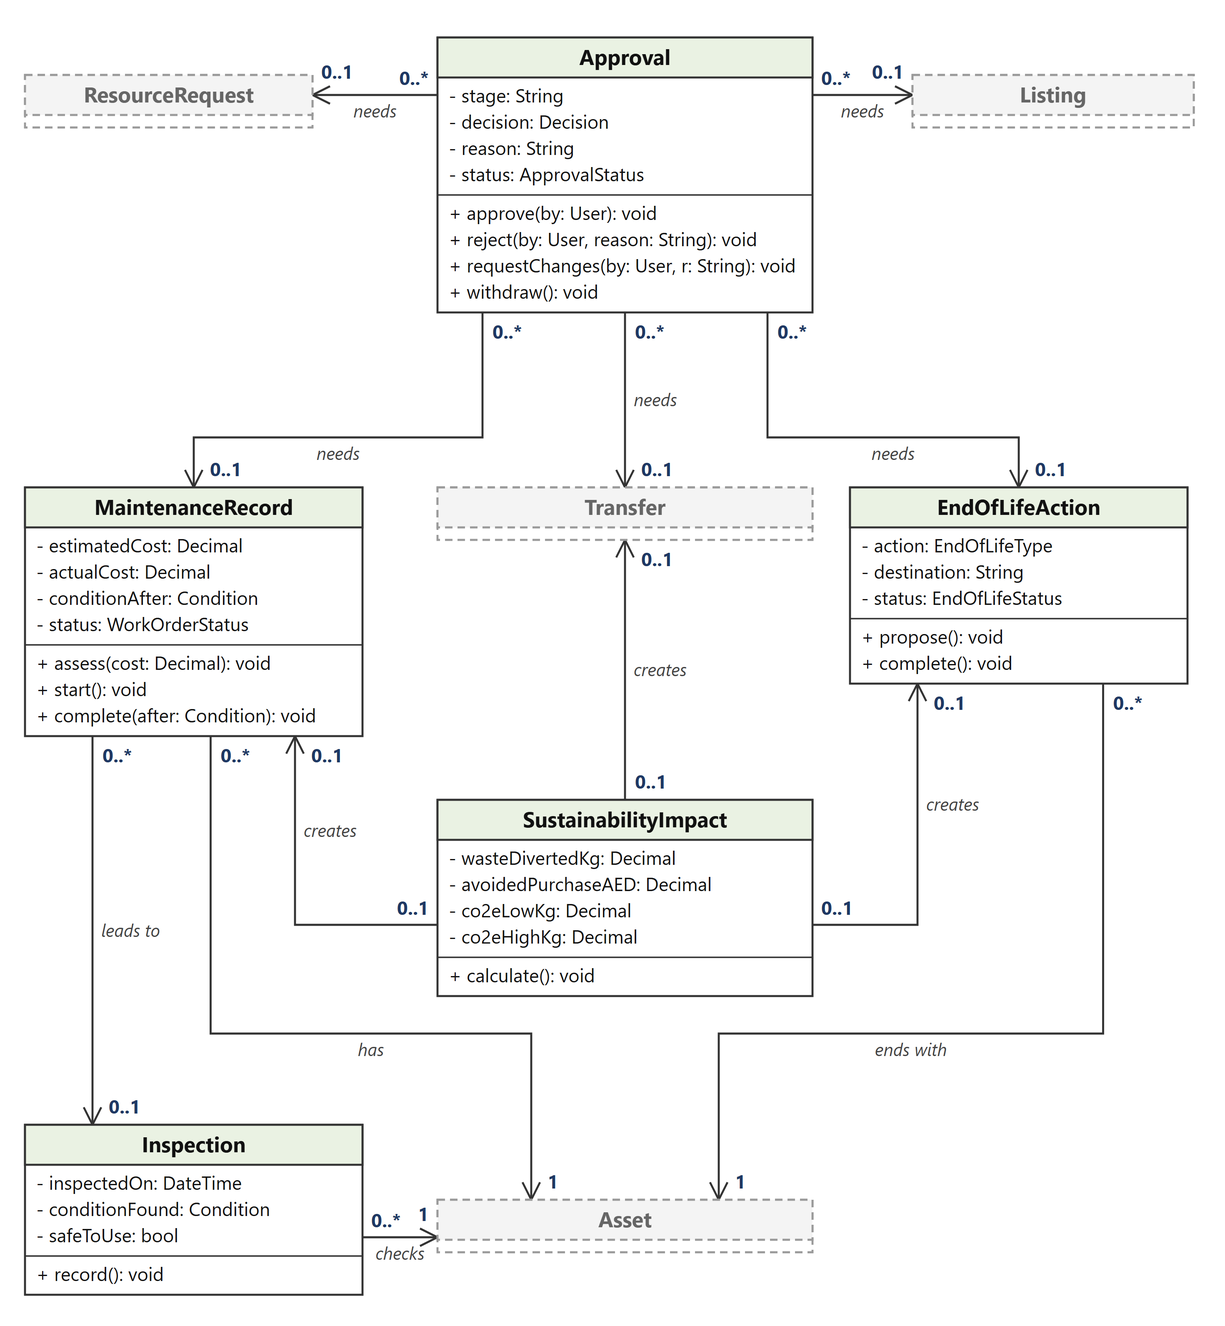
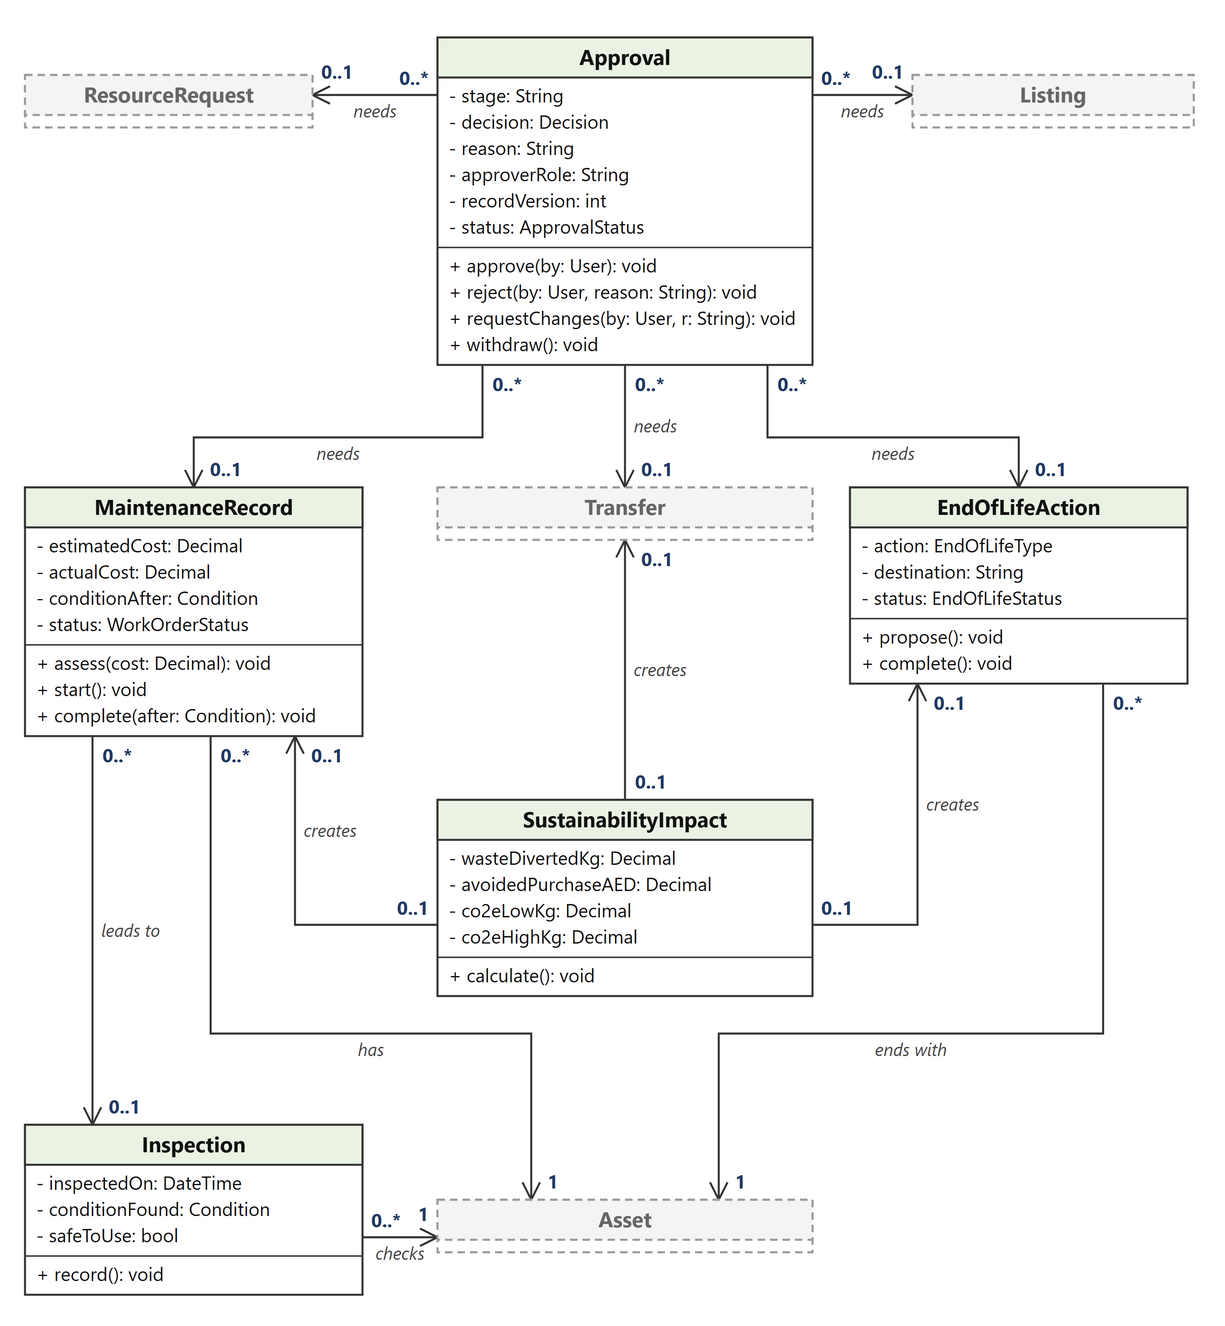
docs(phase45): fix the class and state diagrams (section 10)

Changed region(s): [[0.3714, 0.1244, 0.65, 0.2799], [0.5262, 0.2799, 0.5571, 0.3421]]

diff --git a/docs/phase45/diagrams/class-state.js b/docs/phase45/diagrams/class-state.js
@@ -142,7 +142,7 @@ const C1 = 20, C2 = 350, C3 = 680;
   const D = cls("Department", C3, 30, ["- name: String", "- code: String"], ["+ deactivate(): void"]);
   const N = cls("Notification", C1, 320, ["- message: String", "- sentAt: DateTime", "- readAt: DateTime"], ["+ markRead(): void"]);
   const U = cls("User", C2, 320, ["- name: String", "- email: String", "- accountStatus: AccountStatus"], ["+ signIn(password: String): bool", "+ hasRole(r: Role, d: Department): bool", "+ deactivate(): void"]);
-  const AL = cls("AuditLog", C2, 620, ["- action: String", "- recordType: String", "- recordId: int", "- before: String", "- after: String", "- createdAt: DateTime"], ["+ record(actor: User, action: String): void"], { w: 315 });
+  const AL = cls("AuditLog", C2, 620, ["- action: String", "- recordType: String", "- recordId: int", "- role: String", "- beforeValue: String", "- afterValue: String", "- reason: String", "- createdAt: DateTime"], ["+ record(actor: User, action: String): void"], { w: 315 });
   classFigure("class-people.svg", 970, bottom(AL) + 25, [Role, UR, D, N, U, AL], [
     { a: "Role", as: "right", af: { abs: 80 }, b: "UserRole", bs: "left", bf: { abs: 80 }, ma: "1", mb: "0..*", name: "used in" },
     { a: "Department", as: "left", af: { abs: 80 }, b: "UserRole", bs: "right", bf: { abs: 80 }, ma: "1", mb: "0..*", name: "scopes" },
@@ -171,7 +171,7 @@ const C1 = 20, C2 = 350, C3 = 680;
     { a: "Asset", as: "left", af: { abs: 380 }, b: "Listing", bs: "right", bf: { abs: 380 }, ma: "1", mb: "0..*", name: "offered in" },
     { a: "Asset", as: "right", af: { abs: 380 }, b: "AiSuggestion", bs: "left", bf: { abs: 380 }, ma: "0..1", mb: "0..*", name: "gets" },
     { a: "ModelVersion", as: "bottom", af: 0.5, b: "AiSuggestion", bs: "top", bf: 0.5, ma: "1", mb: "0..*", name: "produces" },
-    { a: "Asset", as: "right", af: { abs: 600 }, b: "Attachment", bs: "left", bf: { abs: 600 }, ma: "1", mb: "0..*", name: "has", kind: "comp" },
+    { a: "Asset", as: "right", af: { abs: 600 }, b: "Attachment", bs: "left", bf: { abs: 600 }, ma: "0..1", mb: "0..*", name: "has", kind: "comp" },
   ], generalization(A, [IT, FU], joinY));
 }
 
@@ -202,7 +202,7 @@ const C1 = 20, C2 = 350, C3 = 680;
 
 // Figure 10.4 approvals and life cycle
 {
-  const Ap = cls("Approval", C2, 30, ["- stage: String", "- decision: Decision", "- reason: String", "- status: ApprovalStatus"], ["+ approve(by: User): void", "+ reject(by: User, reason: String): void", "+ requestChanges(by: User, r: String): void", "+ withdraw(): void"], { w: 300 });
+  const Ap = cls("Approval", C2, 30, ["- stage: String", "- decision: Decision", "- reason: String", "- approverRole: String", "- recordVersion: int", "- status: ApprovalStatus"], ["+ approve(by: User): void", "+ reject(by: User, reason: String): void", "+ requestChanges(by: User, r: String): void", "+ withdraw(): void"], { w: 300 });
   const Rr = cls("ResourceRequest", C1, 60, [], [], { ref: true, w: 230 });
   const Lr = cls("Listing", C3 + 50, 60, [], [], { ref: true, w: 225 });
   const MR = cls("MaintenanceRecord", C1, 390, ["- estimatedCost: Decimal", "- actualCost: Decimal", "- conditionAfter: Condition", "- status: WorkOrderStatus"], ["+ assess(cost: Decimal): void", "+ start(): void", "+ complete(after: Condition): void"]);
@@ -248,9 +248,20 @@ function arrowHead(p1, p2) {
   const bx = p2.x - L * Math.cos(a), by = p2.y - L * Math.sin(a);
   return `<path d="M${p2.x} ${p2.y} L${bx + W * Math.sin(a)} ${by - W * Math.cos(a)} L${bx - W * Math.sin(a)} ${by + W * Math.cos(a)} Z" fill="#333"/>`;
 }
+// transition label; "\n" splits it into lines centred on (x, y)
 function tlabel(text, x, y) {
-  const w = text.length * 7.3 + 10;
-  return `<rect x="${x - w / 2}" y="${y - 11}" width="${w}" height="20" rx="4" fill="#fff" opacity="0.92"/><text x="${x}" y="${y + 4}" text-anchor="middle" font-family="${FONT}" font-size="14" font-style="italic" fill="#333">${esc(text)}</text>`;
+  const lines = text.split("\n"), lh = 17;
+  const w = Math.max(...lines.map((l) => l.length)) * 7.3 + 10, h = lines.length * lh + 3;
+  const top = y - h / 2;
+  let s = `<rect x="${x - w / 2}" y="${top}" width="${w}" height="${h}" rx="4" fill="#fff" opacity="0.92"/>`;
+  lines.forEach((l, i) => { s += `<text x="${x}" y="${top + 14 + i * lh}" text-anchor="middle" font-family="${FONT}" font-size="14" font-style="italic" fill="#333">${esc(l)}</text>`; });
+  return s;
+}
+function choice(x, y) {
+  return `<path d="M${x} ${y - 14} L${x + 14} ${y} L${x} ${y + 14} L${x - 14} ${y} Z" fill="#fff" stroke="#333" stroke-width="1.6"/>`;
+}
+function history(x, y) {
+  return `<circle cx="${x}" cy="${y}" r="12" fill="#fff" stroke="#333" stroke-width="1.6"/><text x="${x}" y="${y + 5}" text-anchor="middle" font-family="${FONT}" font-size="14" font-weight="700" fill="#111">H</text>`;
 }
 class StateDiagram {
   constructor() { this.lines = ""; this.boxes = ""; this.labels = ""; }
@@ -265,8 +276,8 @@ class StateDiagram {
   }
   initial(x, y) { this.boxes += `<circle cx="${x}" cy="${y}" r="10" fill="#111"/>`; }
   finalNode(x, y) { this.boxes += `<circle cx="${x}" cy="${y}" r="12" fill="#fff" stroke="#111" stroke-width="2"/><circle cx="${x}" cy="${y}" r="7" fill="#111"/>`; }
-  composite(x, y, w, h, title) {
-    this.lines = `<rect x="${x}" y="${y}" width="${w}" height="${h}" rx="22" fill="#fffdf6" stroke="#7a5200" stroke-width="1.8"/><text x="${x + 16}" y="${y + 24}" font-family="${FONT}" font-size="15" font-weight="700" fill="#5a3c00">${esc(title)}</text>` + this.lines;
+  composite(x, y, w, h, title, tx = 16) {
+    this.lines = `<rect x="${x}" y="${y}" width="${w}" height="${h}" rx="22" fill="#fffdf6" stroke="#7a5200" stroke-width="1.8"/><text x="${x + tx}" y="${y + 24}" font-family="${FONT}" font-size="15" font-weight="700" fill="#5a3c00">${esc(title)}</text>` + this.lines;
   }
   write(file, w, h) { write(file, w, h, this.lines + this.boxes + this.labels); }
 }
@@ -274,37 +285,50 @@ class StateDiagram {
 // Figure 10.5 asset states
 {
   const g = new StateDiagram();
-  const s1 = state("AS-01", "Draft", 40, 70);
-  const s2 = state("AS-02", "In service", 360, 80, 180);
-  const s3 = state("AS-03", "In storage", 680, 80, 180);
-  const s4 = state("AS-04", "Under maintenance", 40, 340);
-  const s6 = state("AS-06", "Retired", 380, 340);
-  const s5 = state("AS-05", "In transfer", 710, 340);
-  const f = [state("AS-07", "Donated", 30, 560, 170, 62, { final: true }), state("AS-08", "Recycled", 260, 560, 170, 62, { final: true }), state("AS-09", "Disassembled", 490, 560, 170, 62, { final: true }), state("AS-10", "Disposed", 720, 560, 170, 62, { final: true })];
-  g.composite(330, 40, 560, 140, "Active");
-  g.initial(135, 25);
-  g.t([{ x: 135, y: 35 }, { x: 135, y: 70 }]);
-  g.t([{ x: 230, y: 100 }, { x: 330, y: 100 }], "confirmed", { x: 280, y: 82 });
-  g.t([{ x: 540, y: 100 }, { x: 680, y: 100 }], "put into storage", { x: 610, y: 88 });
-  g.t([{ x: 680, y: 128 }, { x: 540, y: 128 }], "put into use", { x: 610, y: 142 });
+  const s1 = state("AS-01", "Draft", 40, 80);
+  const s2 = state("AS-02", "In service", 360, 100, 180);
+  const s3 = state("AS-03", "In storage", 680, 100, 180);
+  const s4 = state("AS-04", "Under maintenance", 40, 375);
+  const s6 = state("AS-06", "Retired", 380, 375);
+  const s5 = state("AS-05", "In transfer", 710, 375);
+  const f = [state("AS-07", "Donated", 30, 620, 170, 62, { final: true }), state("AS-08", "Recycled", 260, 620, 170, 62, { final: true }), state("AS-09", "Disassembled", 490, 620, 170, 62, { final: true }), state("AS-10", "Disposed", 720, 620, 170, 62, { final: true })];
+  const B = 215; // bottom edge of the Active composite
+  g.composite(330, 30, 560, B - 30, "Active");
+  g.initial(135, 35);
+  g.t([{ x: 135, y: 45 }, { x: 135, y: 80 }]);
+  // entering Active: a choice puts the asset in service or in storage (SRS section 4.1.1)
+  g.initial(610, 42);
+  g.t([{ x: 610, y: 52 }, { x: 610, y: 62 }]);
+  g.add(choice(610, 76));
+  g.t([{ x: 596, y: 76 }, { x: 450, y: 76 }, { x: 450, y: 100 }], "[in use]", { x: 523, y: 76 });
+  g.t([{ x: 624, y: 76 }, { x: 770, y: 76 }, { x: 770, y: 100 }], "[stored]", { x: 697, y: 76 });
+  // a cancelled transfer or a resolved dispute returns to the previous state, shown by the history state H
+  g.add(history(600, 190));
+  g.t([{ x: 230, y: 110 }, { x: 330, y: 110 }], "confirmed", { x: 280, y: 94 });
+  g.t([{ x: 540, y: 120 }, { x: 680, y: 120 }], "put into storage", { x: 610, y: 107 });
+  g.t([{ x: 680, y: 148 }, { x: 540, y: 148 }], "put into use", { x: 610, y: 162 });
   // between Active and the middle row
-  g.t([{ x: 380, y: 180 }, { x: 380, y: 260 }, { x: 135, y: 260 }, { x: 135, y: 340 }], "repair approved", { x: 255, y: 260 });
-  g.t([{ x: 200, y: 340 }, { x: 200, y: 290 }, { x: 410, y: 290 }, { x: 410, y: 180 }], "repair completed", { x: 300, y: 290 });
-  g.t([{ x: 450, y: 180 }, { x: 450, y: 340 }], "end of life proposed", { x: 450, y: 235 });
-  g.t([{ x: 530, y: 340 }, { x: 530, y: 180 }], "action rejected", { x: 530, y: 290 });
-  g.t([{ x: 760, y: 180 }, { x: 760, y: 340 }], "handed over", { x: 760, y: 230 });
-  g.t([{ x: 840, y: 340 }, { x: 840, y: 180 }], "received, cancelled or resolved", { x: 790, y: 290 });
-  g.t([{ x: 230, y: 372 }, { x: 380, y: 372 }], "not repairable", { x: 305, y: 392 });
-  // retired to final states
-  const busY = 480;
-  g.t([{ x: 475, y: 402 }, { x: 475, y: busY }], "action completed", { x: 560, y: 450 });
-  for (const s of f) {
-    g.t([{ x: 475, y: busY }, { x: s.x + s.w / 2, y: busY }, { x: s.x + s.w / 2, y: s.y }]);
-    g.t([{ x: s.x + s.w / 2, y: s.y + s.h }, { x: s.x + s.w / 2, y: s.y + s.h + 22 }]);
-    g.finalNode(s.x + s.w / 2, s.y + s.h + 34);
-  }
-  [s1, s2, s3, s4, s6, s5, ...f].forEach((s) => g.add(drawState(s)));
-  g.write("state-asset.svg", 920, 680);
+  g.t([{ x: 380, y: B }, { x: 380, y: 295 }, { x: 135, y: 295 }, { x: 135, y: 375 }], "repair approved", { x: 255, y: 295 });
+  g.t([{ x: 200, y: 375 }, { x: 200, y: 325 }, { x: 410, y: 325 }, { x: 410, y: B }], "repair completed", { x: 300, y: 325 });
+  g.t([{ x: 450, y: B }, { x: 450, y: 375 }], "end of life\nproposed", { x: 472, y: 270 });
+  g.t([{ x: 530, y: 375 }, { x: 530, y: B }], "action\nrejected", { x: 530, y: 320 });
+  g.t([{ x: 740, y: B }, { x: 740, y: 375 }], "handed over", { x: 740, y: 255 });
+  g.t([{ x: 800, y: 375 }, { x: 800, y: 190 }, { x: 612, y: 190 }], "cancelled or\nresolved", { x: 800, y: 320 });
+  g.t([{ x: 860, y: 375 }, { x: 860, y: B }], "received", { x: 860, y: 255 });
+  g.t([{ x: 230, y: 407 }, { x: 380, y: 407 }], "not repairable", { x: 305, y: 427 });
+  // retired: one choice point, then one guarded branch for each final action
+  const cy = 520;
+  g.t([{ x: 475, y: 437 }, { x: 475, y: cy - 14 }], "action completed", { x: 560, y: 472 });
+  g.add(choice(475, cy));
+  const guards = ["[donate]", "[recycle]", "[disassemble]", "[dispose]"];
+  f.forEach((st, i) => {
+    const sx = st.x + st.w / 2, from = sx < 475 ? 461 : 489;
+    g.t([{ x: from, y: cy }, { x: sx, y: cy }, { x: sx, y: st.y }], guards[i], { x: sx, y: 575 });
+    g.t([{ x: sx, y: st.y + st.h }, { x: sx, y: st.y + st.h + 22 }]);
+    g.finalNode(sx, st.y + st.h + 34);
+  });
+  [s1, s2, s3, s4, s6, s5, ...f].forEach((st) => g.add(drawState(st)));
+  g.write("state-asset.svg", 920, 740);
 }
 
 // Figure 10.6 resource request states
@@ -314,28 +338,28 @@ class StateDiagram {
   const s = {
     1: state("RQ-01", "Draft", X, 50, W), 2: state("RQ-02", "Pending department approval", X, 175, W, 70), 3: state("RQ-03", "Open", X, 310, W),
     4: state("RQ-04", "Reservation requested", X, 440, W), 5: state("RQ-05", "In transfer", X, 570, W), 6: state("RQ-06", "Fulfilled", X, 700, W, 62, { final: true }),
-    8: state("RQ-08", "Rejected", 700, 179, 190, 62, { final: true }), 7: state("RQ-07", "No suitable item", 700, 270, 190, 62, { final: true }),
-    10: state("RQ-10", "Expired", 700, 360, 190, 62, { final: true }), 9: state("RQ-09", "Cancelled", 700, 450, 190, 62, { final: true }),
+    8: state("RQ-08", "Rejected", 760, 179, 150, 62, { final: true }), 7: state("RQ-07", "No suitable item", 760, 270, 150, 62, { final: true }),
+    10: state("RQ-10", "Expired", 760, 360, 150, 62, { final: true }), 9: state("RQ-09", "Cancelled", 760, 450, 150, 62, { final: true }),
   };
   g.initial(X + W / 2, 18);
   g.t([{ x: X + W / 2, y: 28 }, { x: X + W / 2, y: 50 }]);
   const cx = X + W / 2 + 40, bx = X + W / 2 - 40;
   g.t([{ x: cx, y: 112 }, { x: cx, y: 175 }], "submitted", { x: cx + 48, y: 142 });
-  g.t([{ x: cx, y: 245 }, { x: cx, y: 310 }], "approved (BR-03)", { x: cx + 66, y: 278 });
+  g.t([{ x: cx, y: 245 }, { x: cx, y: 310 }], "approved (BR-03)", { x: cx + 72, y: 290 });
   g.t([{ x: cx, y: 372 }, { x: cx, y: 440 }], "hold requested", { x: cx + 60, y: 405 });
   g.t([{ x: cx, y: 502 }, { x: cx, y: 570 }], "transfer created", { x: cx + 62, y: 535 });
   g.t([{ x: cx, y: 632 }, { x: cx, y: 700 }], "receipt confirmed", { x: cx + 68, y: 665 });
   // back transitions on the left
   g.t([{ x: bx, y: 175 }, { x: bx, y: 112 }], "changes requested", { x: bx - 72, y: 142 });
   g.t([{ x: X, y: 330 }, { x: 290, y: 330 }, { x: 290, y: 220 }, { x: X, y: 220 }], "changed after approval", { x: 200, y: 275 });
-  g.t([{ x: X, y: 470 }, { x: 290, y: 470 }, { x: 290, y: 355 }, { x: X, y: 355 }], "hold declined or expired", { x: 195, y: 412 });
-  g.t([{ x: X, y: 600 }, { x: 240, y: 600 }, { x: 240, y: 342 }, { x: X, y: 342 }], "transfer rejected or cancelled", { x: 140, y: 540 });
+  g.t([{ x: X, y: 470 }, { x: 290, y: 470 }, { x: 290, y: 355 }, { x: X, y: 355 }], "hold\nended", { x: 290, y: 412 });
+  g.t([{ x: X, y: 600 }, { x: 240, y: 600 }, { x: 240, y: 342 }, { x: X, y: 342 }], "transfer rejected\nor cancelled", { x: 240, y: 540 });
   // RQ-03 and RQ-04 sit inside one composite state, so one "cancelled" transition covers both
   g.composite(315, 266, 300, 256, "Active request");
-  g.t([{ x: X + W, y: 210 }, { x: 700, y: 210 }], "rejected", { x: 640, y: 196 });
-  g.t([{ x: X + W, y: 322 }, { x: 650, y: 322 }, { x: 650, y: 301 }, { x: 700, y: 301 }], "no suitable item", { x: 795, y: 256 });
-  g.t([{ x: X + W, y: 352 }, { x: 650, y: 352 }, { x: 650, y: 391 }, { x: 700, y: 391 }], "date passed", { x: 795, y: 346 });
-  g.t([{ x: 615, y: 490 }, { x: 700, y: 490 }], "cancelled", { x: 657, y: 474 });
+  g.t([{ x: X + W, y: 210 }, { x: 760, y: 210 }], "rejected", { x: 665, y: 196 });
+  g.t([{ x: X + W, y: 322 }, { x: 650, y: 322 }, { x: 650, y: 301 }, { x: 760, y: 301 }], "no suitable\nitem", { x: 705, y: 301 });
+  g.t([{ x: X + W, y: 352 }, { x: 650, y: 352 }, { x: 650, y: 391 }, { x: 760, y: 391 }], "date passed", { x: 705, y: 391 });
+  g.t([{ x: 615, y: 490 }, { x: 760, y: 490 }], "cancelled", { x: 687, y: 474 });
   // deleted draft and final nodes
   g.t([{ x: X + W, y: 80 }, { x: 760, y: 80 }], "deleted", { x: 660, y: 66 });
   g.finalNode(772, 80);
@@ -343,7 +367,7 @@ class StateDiagram {
   g.t([{ x: X + W / 2, y: 762 }, { x: X + W / 2, y: 784 }]);
   g.finalNode(X + W / 2, 796);
   Object.values(s).forEach((st) => g.add(drawState(st)));
-  g.write("state-request.svg", 950, 820);
+  g.write("state-request.svg", 970, 820);
 }
 
 // Figure 10.7 transfer states
@@ -358,20 +382,22 @@ class StateDiagram {
   const s7 = state("TR-07", "Disputed", 680, 530, 200);
   const s8 = state("TR-08", "Rejected", 30, 150, 190, 62, { final: true });
   const s9 = state("TR-09", "Cancelled", 30, 400, 190, 62, { final: true });
-  g.composite(320, 40, 600, 270, "Waiting for approvals");
+  g.composite(320, 40, 600, 270, "Waiting for approvals", 300);
   g.initial(475, 14);
   g.t([{ x: 475, y: 24 }, { x: 475, y: 80 }]);
   g.t([{ x: 475, y: 146 }, { x: 475, y: 210 }], "release approved", { x: 545, y: 178 });
-  g.t([{ x: 590, y: 243 }, { x: 650, y: 243 }], "BR-06 applies", { x: 620, y: 196 });
-  g.t([{ x: 475, y: 276 }, { x: 475, y: 400 }], "receipt approved", { x: 400, y: 340 });
-  g.t([{ x: 765, y: 276 }, { x: 765, y: 360 }, { x: 540, y: 360 }, { x: 540, y: 400 }], "policy approved", { x: 680, y: 360 });
+  g.t([{ x: 475, y: 276 }, { x: 475, y: 321 }], "receipt approved", { x: 395, y: 298 });
+  g.add(choice(475, 335));
+  g.t([{ x: 489, y: 335 }, { x: 700, y: 335 }, { x: 700, y: 276 }], "[BR-06 applies]", { x: 600, y: 335 });
+  g.t([{ x: 475, y: 349 }, { x: 475, y: 400 }], "[BR-06 does not apply]", { x: 380, y: 375 });
+  g.t([{ x: 830, y: 276 }, { x: 830, y: 365 }, { x: 540, y: 365 }, { x: 540, y: 400 }], "policy approved", { x: 690, y: 365 });
   g.t([{ x: 320, y: 181 }, { x: 220, y: 181 }], "rejected", { x: 270, y: 165 });
   g.t([{ x: 320, y: 280 }, { x: 125, y: 280 }, { x: 125, y: 400 }], "cancelled", { x: 220, y: 265 });
   g.t([{ x: 360, y: 431 }, { x: 220, y: 431 }], "cancelled", { x: 290, y: 448 });
   g.t([{ x: 475, y: 462 }, { x: 475, y: 530 }], "handed over", { x: 530, y: 496 });
-  g.t([{ x: 590, y: 561 }, { x: 680, y: 561 }], "difference recorded", { x: 635, y: 512 });
+  g.t([{ x: 590, y: 561 }, { x: 680, y: 561 }], "difference\nrecorded", { x: 635, y: 541 });
   g.t([{ x: 475, y: 592 }, { x: 475, y: 670 }], "receipt confirmed", { x: 545, y: 632 });
-  g.t([{ x: 740, y: 592 }, { x: 740, y: 701 }, { x: 590, y: 701 }], "resolved and received", { x: 740, y: 650 });
+  g.t([{ x: 740, y: 592 }, { x: 740, y: 701 }, { x: 590, y: 701 }], "resolved and\nreceived", { x: 740, y: 650 });
   g.t([{ x: 820, y: 592 }, { x: 820, y: 770 }, { x: 125, y: 770 }, { x: 125, y: 462 }], "returned", { x: 470, y: 770 });
   g.t([{ x: s8.x + s8.w / 2, y: s8.y }, { x: s8.x + s8.w / 2, y: s8.y - 24 }]);
   g.finalNode(s8.x + s8.w / 2, s8.y - 36);

diff --git a/docs/phase45/sections/10-sultan-class-and-state.md b/docs/phase45/sections/10-sultan-class-and-state.md
@@ -2,12 +2,12 @@
 
 ## 10.1 Class Diagram
 
-The class diagram turns the entities in section 8 into classes with attributes, operations and associations. Every association has the same multiplicities as the ER diagram (Table 8.1). Keys are not shown as attributes, because each foreign key becomes an association. Like the ER diagram, it is split into four figures so it stays readable.
+The class diagram turns the entities in section 8 into classes with attributes, operations and associations. Every association has the same multiplicities as the ER diagram (Table 8.1). Keys are not shown as attributes, because each foreign key becomes an association. To keep the figures readable we leave out the user links of Asset, Approval and Inspection, the user and department links of Transfer, and the category link of ResourceRequest (Table 8.1 rows 7 to 9, 13 and 35 to 38); they work like the links shown. Like the ER diagram, the class diagram is split into four figures, and grey dashed boxes belong to another figure.
 
 We use the notation from the lab slides:
 
 - **Visibility and types.** "-" marks a private attribute and "+" a public operation, each with its type, for example "- status: AssetStatus" and "+ reserve(qty: int): void".
-- **Aggregation (hollow diamond).** A department groups its assets, but an asset can move to another department, so it does not depend on the department.
+- **Aggregation (hollow diamond).** A department groups its assets and its users, but an asset or a user can move to another department, so neither depends on the department.
 - **Composition (filled diamond).** A user's role assignments, a request's specification and an asset's attachments cannot exist without their owner. RequestSpecification is kept inside the ResourceRequest table, so it is not a separate entity in section 8. Attachments of transfers, inspections, repairs and end-of-life actions work the same way (Table 8.1, rows 41 to 45).
 - **Generalization (hollow triangle).** ITAsset and FurnitureAsset are kinds of Asset with extra attributes. ITAsset knows whether the device stores data, which decides if a data-erasure record is needed (BR-09).
 - **Derived attribute.** /assetAge is worked out from purchaseDate and is not stored.
@@ -28,7 +28,7 @@ Location is a value made of campus, building and room. Condition is an enumerati
 <!-- widths: 3200,3600,2560 -->
 | Operation | What it does | SRS |
 |---|---|---|
-| Asset.confirm(by) | Confirms a new asset record by a second user. | Table 5.2, BR-02 |
+| Asset.confirm(by) | Confirms a new asset record by a second user. | SRS Table 5.2, BR-02 |
 | Listing.publish() | Makes a listing visible after its release is approved. | FR-06, BR-04 |
 | ResourceRequest.approve(by) | Opens a request after department approval. | FR-07, BR-03 |
 | MatchRecommendation.override(reason) | Records that the requester chose another item, and why. | AI-05.2 |
@@ -42,24 +42,24 @@ Location is a value made of campus, building and room. Condition is an enumerati
 
 ## 10.2 Asset State Diagram
 
-Figure 10.5 shows the asset life cycle from SRS section 4.1.1. Active is a composite state that holds AS-02 In service and AS-03 In storage, so a repair, a transfer or an end-of-life proposal can start from either of them. When a repair is completed, a transfer is received or cancelled, or an end-of-life action is rejected, the asset goes back to In service or In storage. AS-07 to AS-10 are final states.
+Figure 10.5 shows the asset life cycle from SRS section 4.1.1. Active is a composite state that holds AS-02 In service and AS-03 In storage, so a repair, a transfer or an end-of-life proposal can start from either of them. Every way into Active goes through a choice: the asset goes to In service or In storage. This covers a confirmed new asset, a completed repair, a rejected end-of-life action and a received transfer under the new owner. Only a cancelled transfer or a resolved dispute returns the asset to the state it was in before, shown by the history state H (SRS section 4.1.1). A completed end-of-life action ends in one of the final states AS-07 to AS-10, chosen by the action.
 
 ![Figure 10.5 Asset state diagram](images/state-asset.png)
 
 ## 10.3 Resource Request State Diagram
 
-Figure 10.6 follows SRS section 4.1.3. RQ-03 Open and RQ-04 Reservation requested sit inside the composite state "Active request", because the requester can cancel from both. A change to an approved request sends it back for department approval (BR-03).
+Figure 10.6 follows SRS section 4.1.3. RQ-03 Open and RQ-04 Reservation requested sit inside the composite state "Active request", because the requester can cancel from both. "Hold ended" means the hold was declined or expired. A change to an approved request sends it back for department approval (BR-03).
 
 ![Figure 10.6 Resource request state diagram](images/state-request.png)
 
 ## 10.4 Transfer State Diagram
 
-Figure 10.7 follows SRS section 4.1.5. TR-01 to TR-03 sit inside the composite state "Waiting for approvals", because the transfer can be rejected or cancelled at any of these stages (BR-05, BR-06). TR-03 is used only when BR-06 applies. Ownership changes only when receipt is confirmed (BR-13).
+Figure 10.7 follows SRS section 4.1.5. TR-01 to TR-03 sit inside the composite state "Waiting for approvals", because the transfer can be rejected or cancelled at any of these stages (BR-05, BR-06). After receipt approval, a choice point sends the transfer to TR-03 only when BR-06 applies, and straight to TR-04 when it does not. Ownership changes only when receipt is confirmed (BR-13).
 
 ![Figure 10.7 Transfer state diagram](images/state-transfer.png)
 
 ## 10.5 Approval State Diagram
 
-Figure 10.8 follows SRS section 4.1.8. Every approval stage in Table 5.2 of the SRS uses this life cycle. A request for changes ends the task, and resubmitting the record creates a new task (SRS section 4.1.8). Every state change in sections 10.2 to 10.5 also writes an audit entry (FR-18.1).
+Figure 10.8 follows SRS section 4.1.8. Every approval kept in the Approval table (section 8.1) uses this life cycle. A request for changes ends the task, and resubmitting the record creates a new task (SRS section 4.1.8). Every state change in sections 10.2 to 10.5 also writes an audit entry (FR-18.1).
 
 ![Figure 10.8 Approval state diagram](images/state-approval.png)
